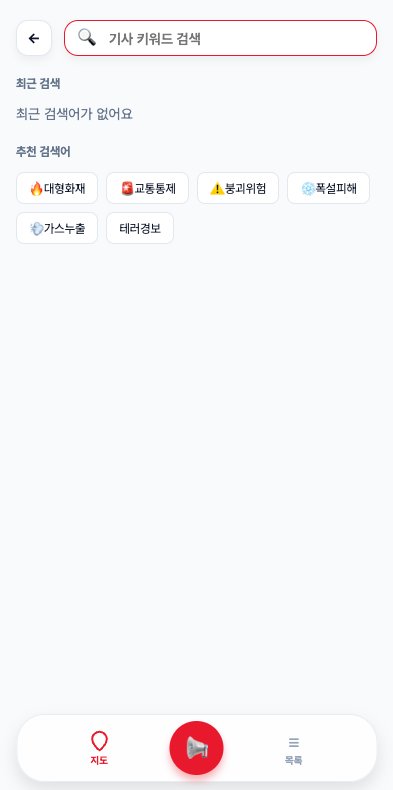
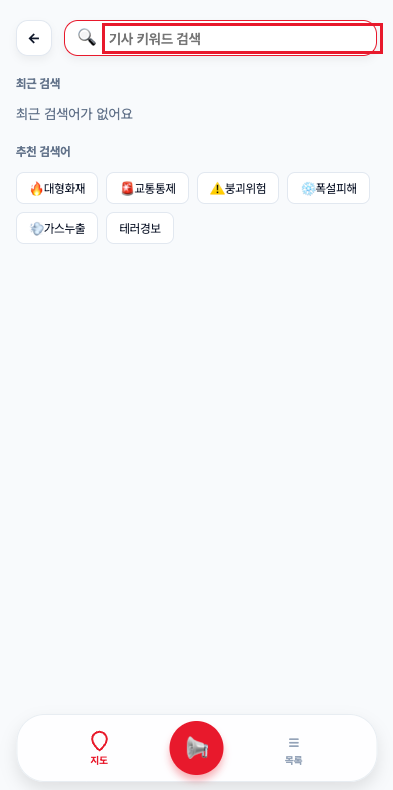
fix(search): 제출 전 검색어 지우기 동작 복구
시각 보정에서 숨긴 브라우저 기본 지우기 버튼을 복구한다.
제출 전 입력과 제출 후 URL 초기화를 실제 Chrome에서 확인했다.

Assisted-by: GPT-6 Astra
Assisted-by: GPT-6

Changed region(s): [[0.2748, 0.0304, 0.9771, 0.0911], [0.2443, 0.0304, 0.2748, 0.0608]]

diff --git a/src/app/search/page.tsx b/src/app/search/page.tsx
@@ -55,7 +55,7 @@ export default async function SearchPage({
             defaultValue={keyword}
             aria-label="기사 키워드 검색"
             placeholder="기사 키워드 검색"
-            className="min-w-0 flex-1 border-0 bg-transparent p-0 text-[14px]/[17px] font-semibold text-text [&::-webkit-search-cancel-button]:appearance-none"
+            className="min-w-0 flex-1 border-0 bg-transparent p-0 text-[14px]/[17px] font-semibold text-text"
           />
           {keyword && (
             <Link

diff --git a/collab/active/codex--figma-map-home/verification.md b/collab/active/codex--figma-map-home/verification.md
@@ -41,3 +41,7 @@
 기본 next build 성공 후 실제 Naver SDK 지도10개 검증 그룹, 운영 공개GET4회/쓰기0회/82개중좌표3개, 검색·목록·실제이미지 상세7개 검증 그룹, 모션/동작줄이기3개 검증 그룹이 모두 성공했다. 모든 실제브라우저 pageErrors는0이다. 모션은 computedStyle로120/140/190ms, reduce의animation:none/transition:0s/scale:none을 확인했다. 관련 화면은320/393/667가로/1440폭에서 넘침이 없고 상세사진은190px다. 영상의clipboard검증은브라우저메모리mock으로시스템클립보드를변경하지않았다.
 
 최종 브라우저 소스 hash는 browser-verified-source-files.json, 화면과 영상은 evidence/에 보관한다. 최종 전체 gate와 독립 리뷰는 소스 커밋 뒤 다시 실행하며, 결과를 추측해 통과로 기록하지 않는다.
+
+## 독립 리뷰의 검색 입력 회귀 수정
+
+fc05b5e에서 전체109개는모두통과했지만 독립리뷰는 제출전검색어지우기 회귀1개를P2로확인했다. native search cancel을숨긴클래스1개를삭제해기존브라우저입력동작을복구했다. 새기능/상태/테스트는추가하지않았다. 기본빌드와기존search-page3개가통과했고 실제Chrome에서제출전native X로지우기와제출후URL초기화를모두재현해성공했다. 다른제품파일hash는동일하다. 이후커밋에서전체gate/독립리뷰를다시수행한다.
